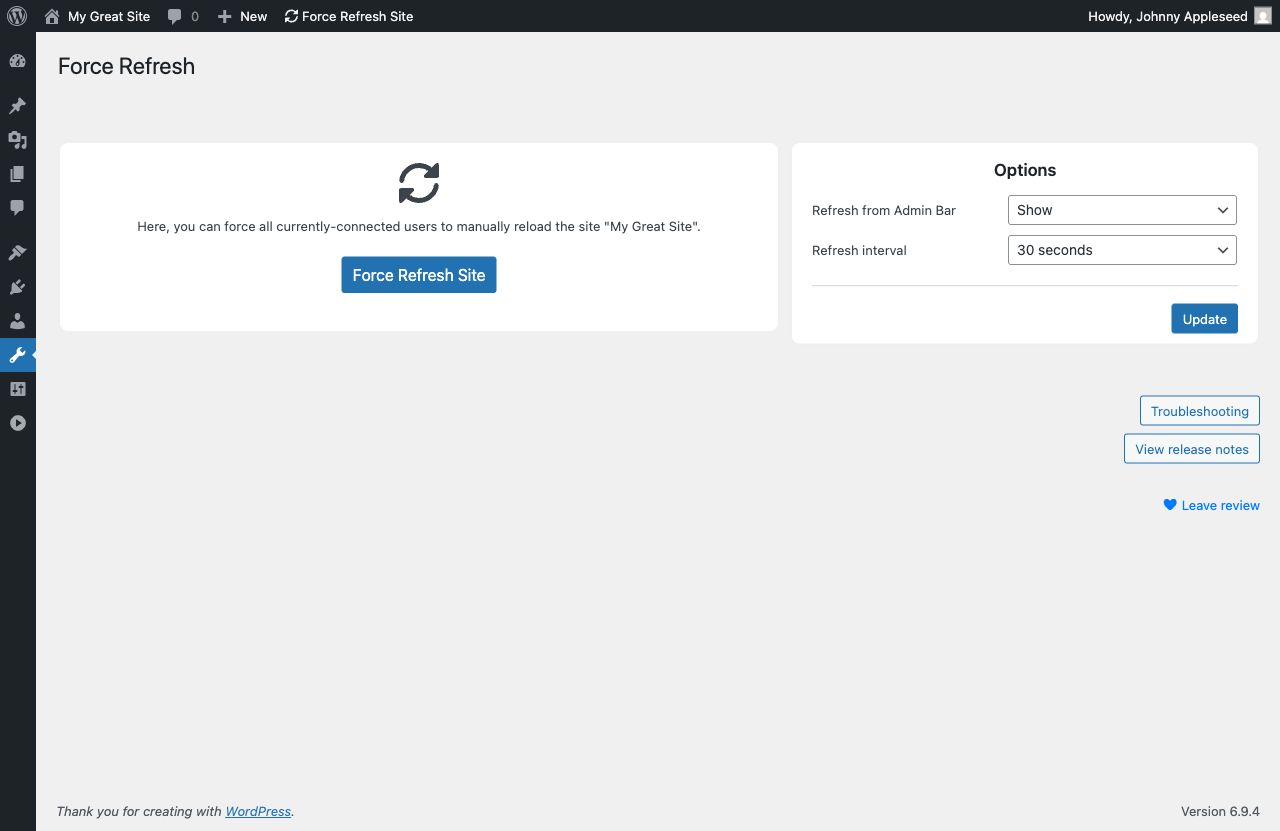
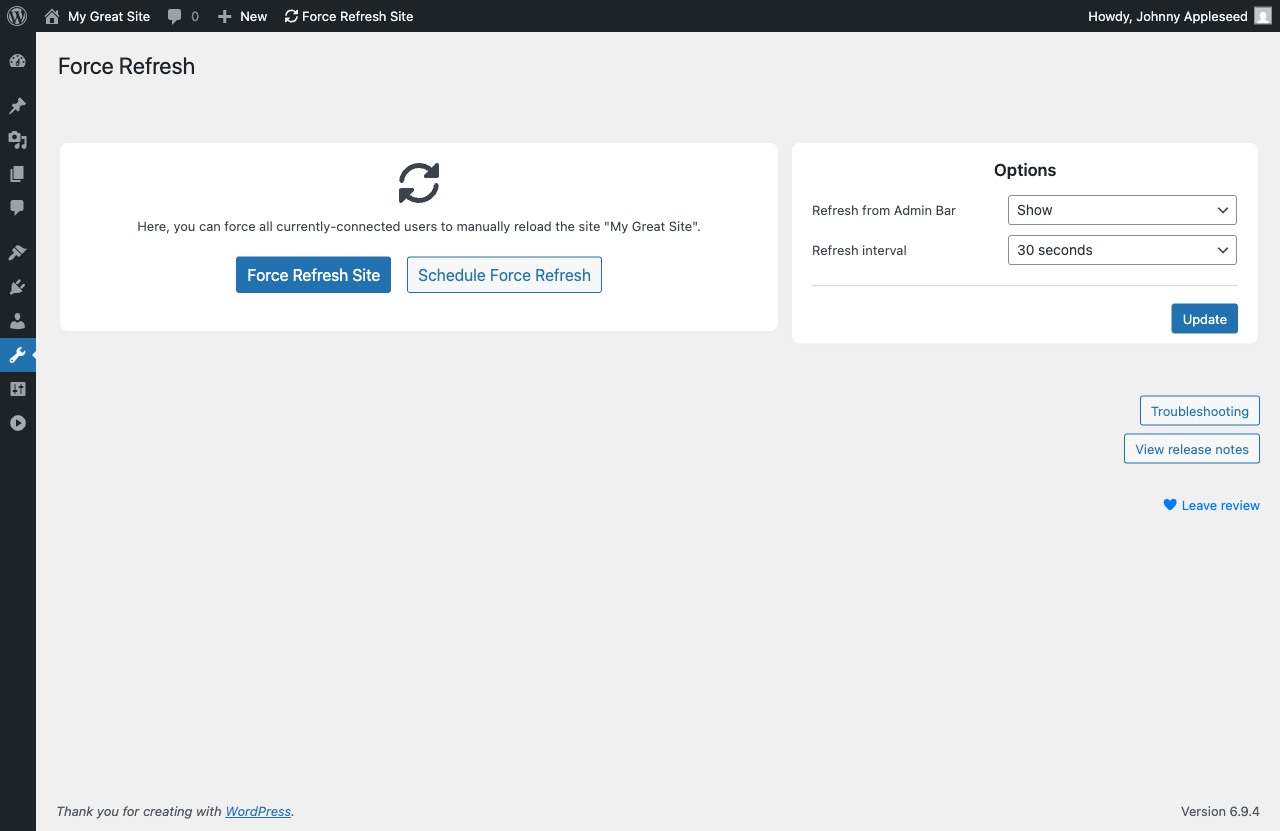
docs: Update screenshot captions

Changed region(s): [[0.1875, 0.3008, 0.4688, 0.361]]

diff --git a/screenshots/screenshots.config.ts b/screenshots/screenshots.config.ts
@@ -31,6 +31,7 @@ export const SCREENSHOT_VIEWPORT = { width: 1280, height: 831 };
 const CAPTIONS = {
   adminBar: 'You can enable Force Refresh in the WordPress admin bar for quick access from anywhere in the dashboard.',
   pluginPage: "Under Tools, you'll find all settings for Force Refresh.",
+  scheduleRefresh: 'Use Schedule Force Refresh to pick a specific date and time for the refresh: no need to be at your desk when it goes out.',
   releaseNotes: 'Want to see the latest features? Clicking "View Release Notes" will display the most recent features and fixes for Force Refresh.',
   singlePage: 'To refresh a single page or post, locate the "Force Refresh" section under any page.',
   toolsRefresh: "Choose from popular refresh intervals or set a custom one. You'll receive confirmation that browsers were requested to refresh.",
@@ -45,6 +46,22 @@ export const screenshots: ScreenshotDefinition[] = [
       { type: 'waitForSelector', selector: 'select[name="refresh-interval"]' },
       { type: 'addStyle', css: '.force-refresh__container { padding-top: 24px; }' },
       { type: 'ensureSidebarCollapsed' },
+    ],
+  },
+  {
+    caption: CAPTIONS.scheduleRefresh,
+    actions: [
+      { type: 'navigate', path: '/wp-admin/tools.php?page=force_refresh' },
+      { type: 'waitForSelector', selector: 'select[name="refresh-interval"]' },
+      { type: 'ensureSidebarCollapsed' },
+      { type: 'click', selector: '[data-test="btn-schedule-refresh"]' },
+      { type: 'waitForSelector', selector: '#schedule-datetime-picker' },
+      {
+        type: 'highlightElement',
+        selector: '#schedule-datetime-picker',
+        padding: 10,
+      },
+      { type: 'waitForTimeout', ms: 300 },
     ],
   },
   {

diff --git a/README.md b/README.md
@@ -37,8 +37,9 @@ Upload Force Refresh to your site and activate it. When you're ready to request 
 ## Screenshots
 
 1. Under Tools, you'll find all settings for Force Refresh.
-2. You can enable Force Refresh in the WordPress admin bar for quick access from anywhere in the dashboard.
-3. Choose from popular refresh intervals or set a custom one. You'll receive confirmation that browsers were requested to refresh.
-4. To refresh a single page or post, locate the "Force Refresh" section under any page.
-5. Want to see the latest features? Clicking "View Release Notes" will display the most recent features and fixes for Force Refresh.
-6. If you're having trouble, clicking on "Troubleshooting" will allow you to view the current settings for Force Refresh and allow you to enter Debugging Mode: an enhanced browser console logging mode that can be used to diagnose issues.
+2. Use Schedule Force Refresh to pick a specific date and time for the refresh: no need to be at your desk when it goes out.
+3. You can enable Force Refresh in the WordPress admin bar for quick access from anywhere in the dashboard.
+4. Choose from popular refresh intervals or set a custom one. You'll receive confirmation that browsers were requested to refresh.
+5. To refresh a single page or post, locate the "Force Refresh" section under any page.
+6. Want to see the latest features? Clicking "View Release Notes" will display the most recent features and fixes for Force Refresh.
+7. If you're having trouble, clicking on "Troubleshooting" will allow you to view the current settings for Force Refresh and allow you to enter Debugging Mode: an enhanced browser console logging mode that can be used to diagnose issues.
